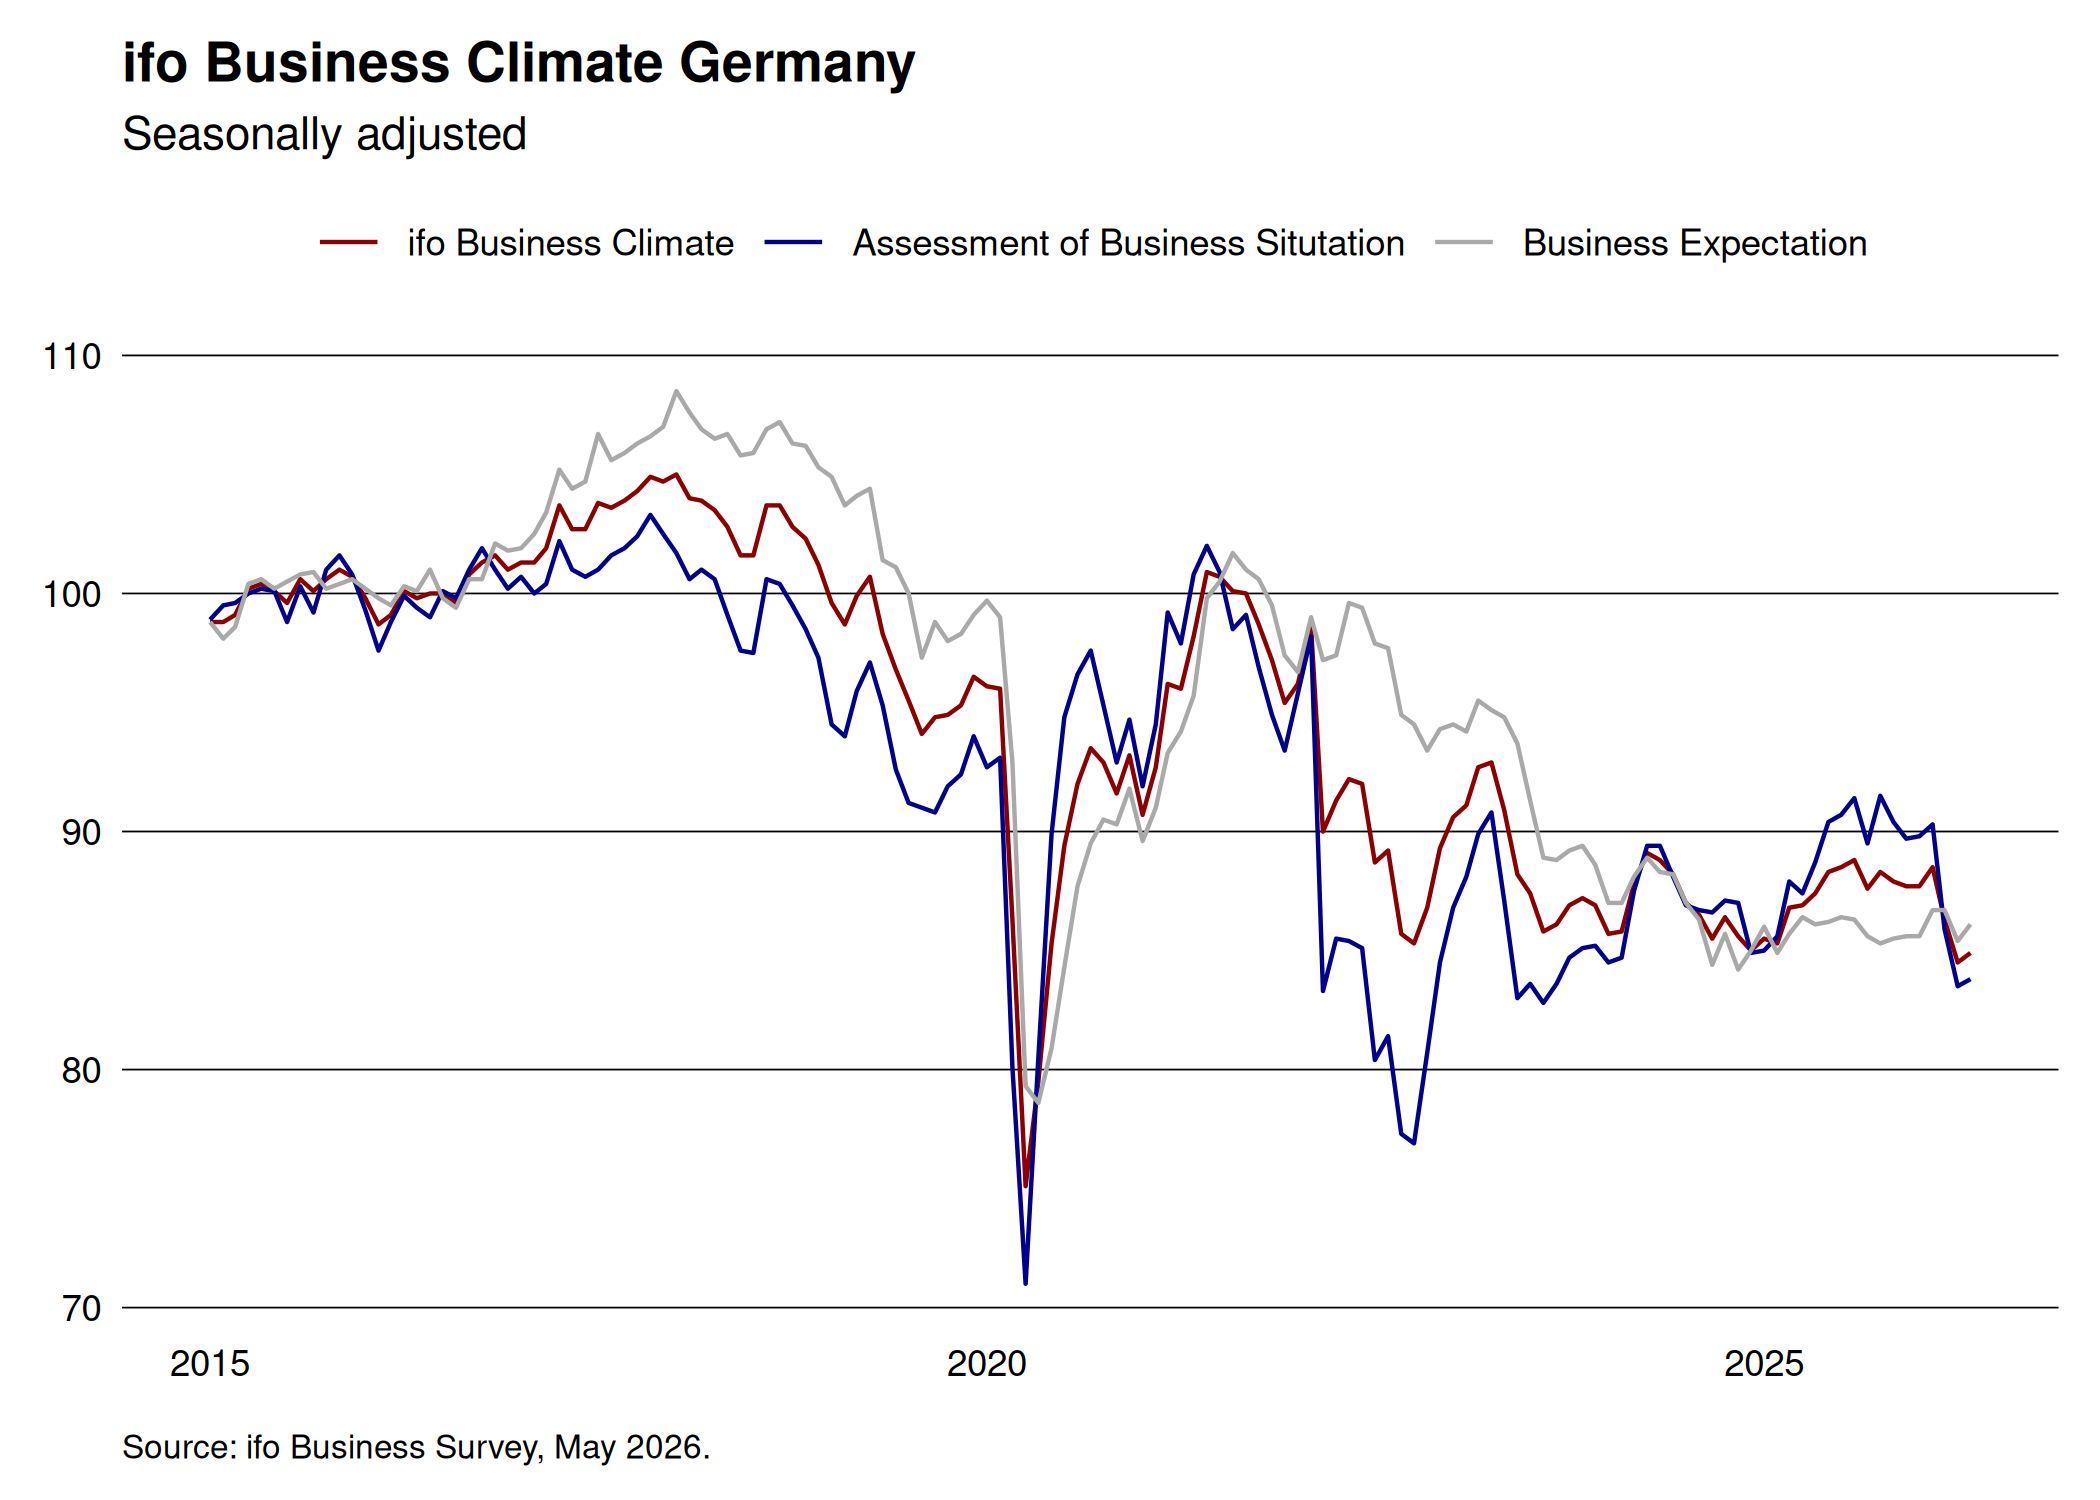
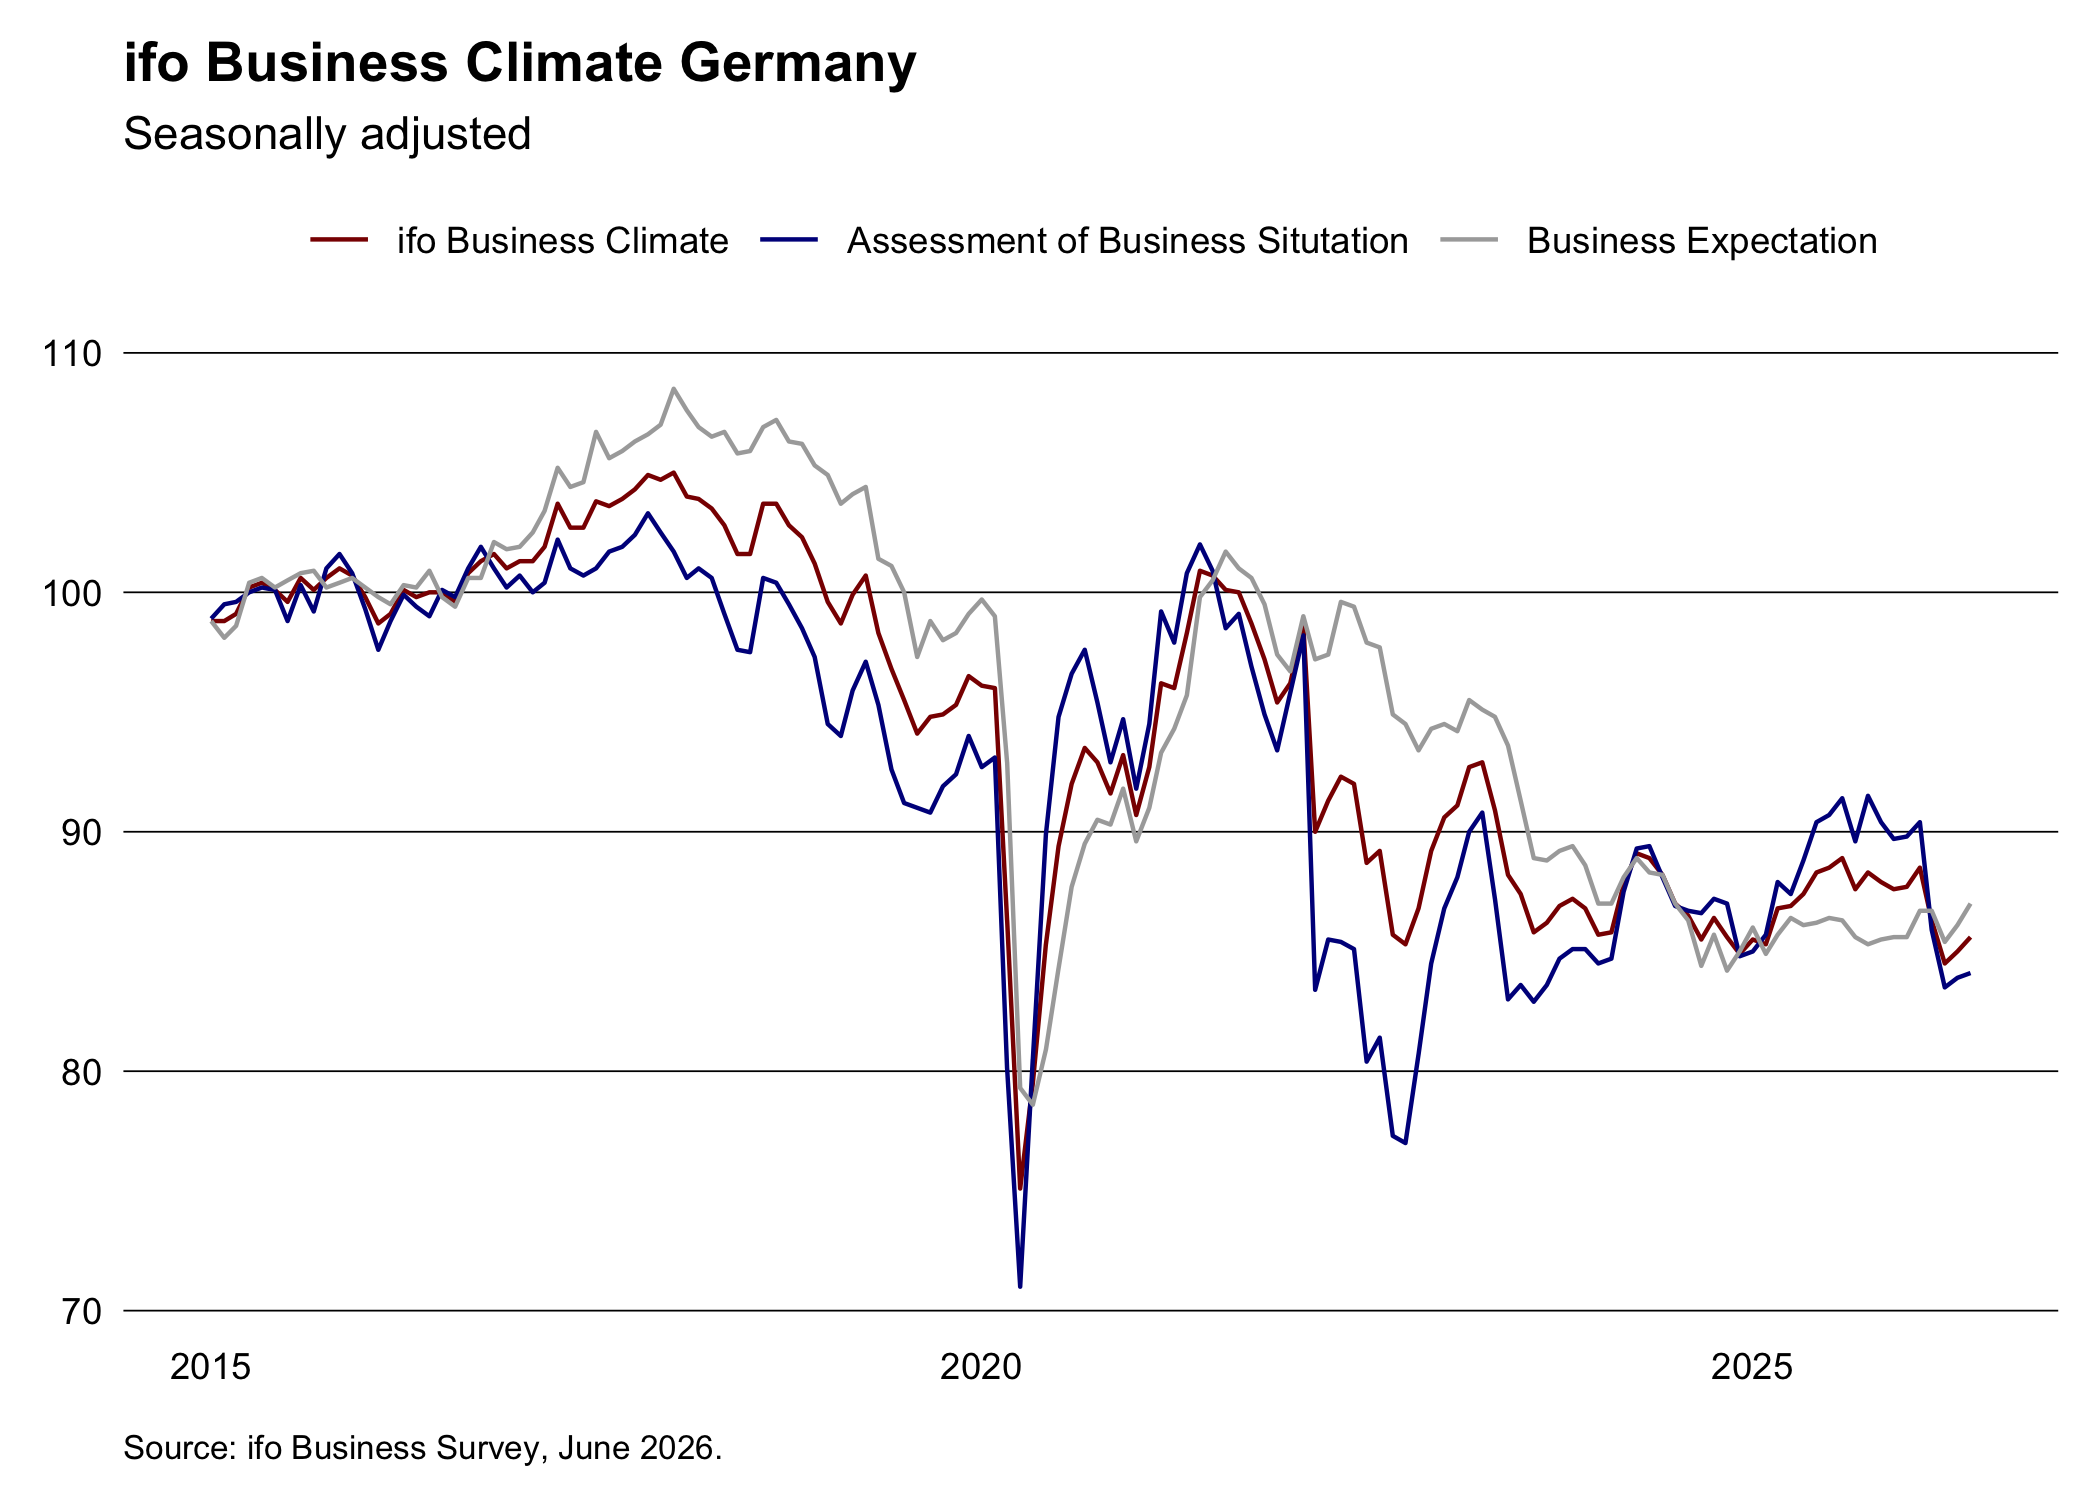
chore: re-build readme

diff --git a/README.md b/README.md
@@ -48,7 +48,7 @@ head(climate)
 #> 2 2005-02-01          NA               50.4   climate  index  92.0
 #> 3 2005-03-01          NA                4.9   climate  index  90.1
 #> 4 2005-04-01          NA               18.7   climate  index  89.9
-#> 5 2005-05-01          NA               11.7   climate  index  89.3
+#> 5 2005-05-01          NA               11.7   climate  index  89.4
 #> 6 2005-06-01          NA               32.1   climate  index  89.3
 ```
 